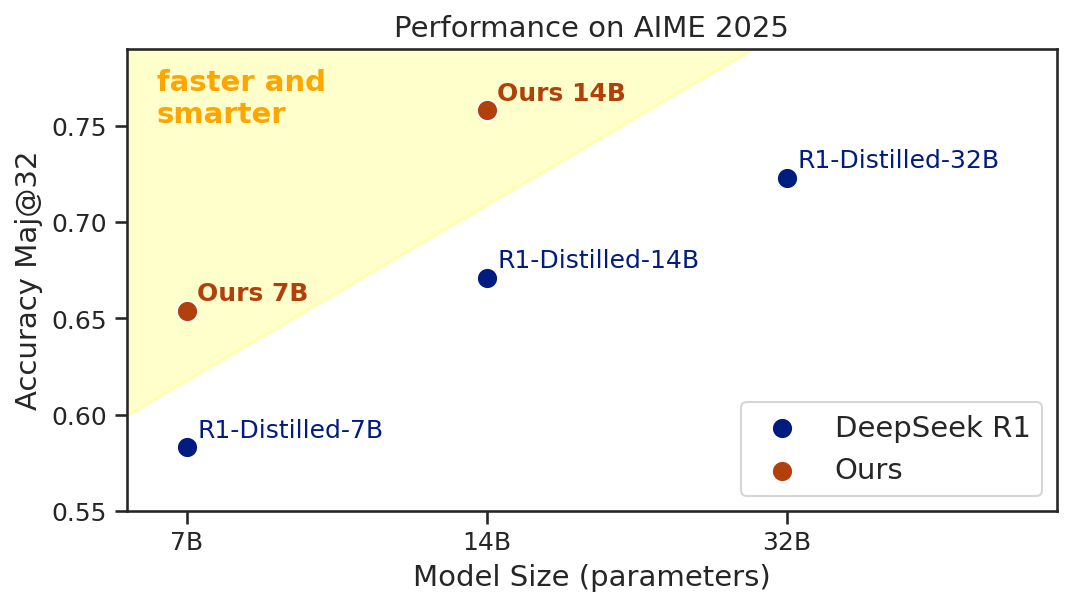
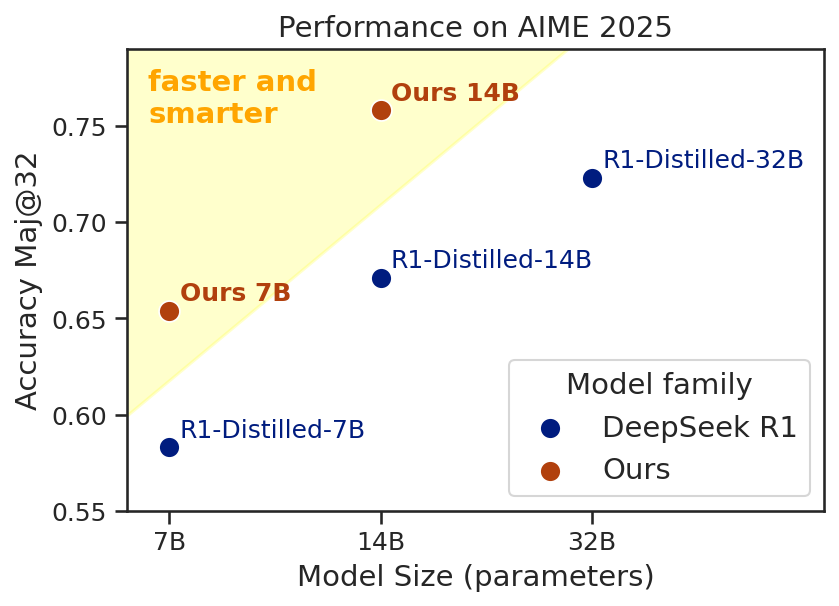
final touches to the GRPO post

diff --git a/content/posts/improving-deepseek/index.md b/content/posts/improving-deepseek/index.md
@@ -4,17 +4,17 @@ url: "/improving-deepseek"
 date: 2025-04-18T00:00:00+00:00
 # weight: 1
 # aliases: ["/first"]
-tags: ["Projects", "LLM", "Reinforcement Learning"]
+tags: ["LLM", "Reasoning", "Reinforcement Learning"]
 keywords: ["Reinforcement Learning", "RLHF", "Machine Learning", "RLVR", "AIME", "AIME 2025", "AIME 2024", "DeepSeek", "R1", "DeepSeek-R1", "DeepSeek R1", "GRPO", "REINFORCE++", "Light-R1", "NuminaMath", "AIMO", "AIMO2", "Kaggle", "Reasoning", "LLM", "Math Olympiads"]
 author: "Kha Vu Chan"
-# author: ["Me", "You"] # multiple authors
+# author: ["Kha Vu Chan", "Geremie Yeo", "Kelvin Soh", "Raja Biswas", "Udbhav Bamba"] # multiple authors
 showToc: true
 TocOpen: false
 draft: true
 hidemeta: false
 comments: true
 disqus_identifier: hav4ik/learning-to-rank
-summary: "We trained a family of math reasoning models, 7B and 14B, finetuned with SFT and GRPO from DeepSeek-Distill-R1 models. Our 14B model achieves **75.8%** Maj@32 accuracy on AIME’25 (**+8.7%** improvement), surpassing twice larger DeepSeek-R1-Distill-32B. Our 7B model achieves **65.8%** Maj@32 (**+7.5%** improvement), comparable to DeepSeek-R1-Distill-14B. A single end-to-end training run (SFT + GRPO) of our 14B model costs less than $800."
+summary: "I joined a team and we trained 7B and 14B math reasoning models based on DeepSeek-R1-Distill using SFT and GRPO. Our 14B model achieved **75.8%** Maj@32 on AIME’25 (**+8.7%** improvement), and our 7B model reached **65.8%** Maj@32 (**+7.5%**). Here is what I've learned."
 # canonicalURL: "https://canonical.url/to/page"
 disableHLJS: true # to disable highlightjs
 disableShare: false
@@ -42,14 +42,16 @@ cover:
 #     appendFilePath: true # to append file path to Edit link
 ---
 
-> Contributors: [**Geremie Yeo**](https://www.linkedin.com/in/geremie-yeo/), [**Kelvin Soh**](https://www.linkedin.com/in/kelvin-soh/), **[Raja Biswas](https://www.linkedin.com/in/raja-biswas/)**, **[Chan Kha Vu](https://hav4ik.github.io/about/)**, [**Udbhav Bamba**](https://ubamba98.github.io).  
+> Model contributors: [**Geremie Yeo**](https://www.linkedin.com/in/geremie-yeo/), [**Kelvin Soh**](https://www.linkedin.com/in/kelvin-soh/), **[Raja Biswas](https://www.linkedin.com/in/raja-biswas/)**, **[Chan Kha Vu](https://hav4ik.github.io/about/)**, [**Udbhav Bamba**](https://ubamba98.github.io).  
 > *Our team are just enthusiasts doing things outside of our full-time jobs (unrelated to LLMs or Reasoning) and other commitments in life. Cloud compute costs are entirely self-funded.*
 
-{{< figure src="featured.png" caption="Majority voting accuracy (Maj@32) on the uncontaminated AIME 2025 math olympiad of our models compared to DeepSeek R1 Distill models." invertible="false" >}}
+{{< figure src="cover.png" caption="Majority voting accuracy (Maj@32) on the uncontaminated AIME 2025 Math Olympiad, comparing our models to the DeepSeek-R1-Distill baselines. See the 'Evaluations' section for details on how this chart was generated." invertible="false" >}}
 
-This blog post is an extended and more personal version of [our team's short writeup on Kaggle](https://www.kaggle.com/competitions/ai-mathematical-olympiad-progress-prize-2/discussion/573496). Here, you will find details that are normally never included in polished papers or tech reports &mdash; system design, failed experiments, and engineering trics.
+This blog post is a more personal and extended version of [our team’s short write-up on Kaggle](https://www.kaggle.com/competitions/ai-mathematical-olympiad-progress-prize-2/discussion/573496). Here, you’ll find the kinds of details that rarely make it into polished papers or tech reports &mdash; system design, failed experiments, engineering details, and other discussions. You’ll also notice some awkward switches between “we” and “I” as I alternate between describing team efforts and my own experiments and thoughts.
+
 
 -------------------
+
 
 ## Preface
 
@@ -68,7 +70,7 @@ Take the [American Invitational Mathematics Examination (AIME)](https://en.wikip
 
 > **AIME 2025 I, problem 13.** Alex divides a disk into four quadrants with two perpendicular diameters intersecting at the center of the disk. He draws \( 25 \) more lines segments through the disk, drawing each segment by selecting two points at random on the perimeter of the disk in different quadrants and connecting those two points. Find the expected number of regions into which these \( 27 \) line segments divide the disk.
 
-*Please pause here for at least 5 minutes. Grab a pen and paper &mdash; try solving it! This fun little problem has more subtlety than it seems 😜. The correct human and AI solutions are included at the end of this post.*
+*Please pause here for at least 5 minutes. Grab a pen and paper &mdash; try solving it! This fun little problem has more subtlety than it seems 😜. Answer is provided at the end of this blog post.*
 
 Due to their complexity, AIME problems have become a standard hard benchmark for LLM reasoning. Just a year ago, any improvement on AIME 2024 performance would make headlines. The best open-weight models, like [DeepSeek Math](https://arxiv.org/abs/2402.03300), could only score 3% &mdash; or 10% with external tools. High-quality human-written solutions are scarce online, and for a while, it felt like real progress in mathematical reasoning would require hundreds of thousands (if not millions) of dollars to produce a usable dataset.
 
@@ -85,9 +87,22 @@ Early reproduction efforts like [DeepScaleR](https://www.notion.so/19681902c1468
 
 [AIMO](https://aimoprize.com) is a prestigious competition hosted on Kaggle with a total prize pool of $2’000’000, designed to push the frontier of open-source reasoning models. The difficulty of the problems are around the National Olympiad level. The problems have also been designed to be 'AI hard' in terms of the mathematical reasoning required, which was tested against open LLMs' capabilities (as of October 2024). Here is one of the [10 publicly available reference problems](https://www.kaggle.com/competitions/ai-mathematical-olympiad-progress-prize-2/data?select=AIMO_Progress_Prize_2_Reference_Problems_Solutions.pdf):
 
-> **AIMO2 reference problem.** Let \( ABC \) be a triangle with \( BC=108 \), \( CA=126 \), and \( AB=39 \). Point \( X \) lies on segment \( AC \) such that \( BX \) bisects \( \angle CBA \). Let \( \omega \) be the circumcircle of triangle \( ABX \). Let \( Y \) be a point on \( \omega \) different from \( X \) such that \( CX=CY \). Line \( XY \) meets \( BC \) at \( E \). The length of the segment \( BE \) can be written as \( \frac{m}{n} \), where \( m \) and \( n \) are coprime positive integers. Find \( m+n \).
+> **AIMO2 reference problem 2.** Let \( ABC \) be a triangle with \( BC=108 \), \( CA=126 \), and \( AB=39 \). Point \( X \) lies on segment \( AC \) such that \( BX \) bisects \( \angle CBA \). Let \( \omega \) be the circumcircle of triangle \( ABX \). Let \( Y \) be a point on \( \omega \) different from \( X \) such that \( CX=CY \). Line \( XY \) meets \( BC \) at \( E \). The length of the segment \( BE \) can be written as \( \frac{m}{n} \), where \( m \) and \( n \) are coprime positive integers. Find \( m+n \).
 
-*Again, I highly encourage you to pause here for at least 5 minutes, grab a pen and a piece of paper, and try to solve it. Correct human solution and AI solution will be provided at the end of this post.*
+*Again, I highly encourage you to pause here for at least 5 minutes, grab a pen and a piece of paper, and try to solve it. Answer is provided at the end of this blog post.*
+
+
+### What makes a problem 'AI hard'?
+
+By analyzing failure cases on medium-level math problems from AIME, we noticed that reasoning models often struggle with problems that have multiple corner cases and Geometry problems (due to the lack of visual understanding). My teammate [Geremie Yeo](https://www.linkedin.com/in/geremie-yeo/) wrote a great analysis on this: [AI outputs Wrong Answers due to Corner Cases for Medium-Level Math Problems](https://www.kaggle.com/competitions/ai-mathematical-olympiad-progress-prize-2/discussion/571769).
+
+I find that many of the model’s mistakes mirror the kinds of errors humans make too. Let’s look at the following problem as an example:
+
+> **AIME 2025 II, problem 7.** Let \( A \) be the set of positive integer divisors of \( 2025 \). Let \( B \) be a randomly selected subset of \( A \). The probability that \( B \) is a nonempty set with the property that the least common multiple of its elements is \( 2025 \) is \( \frac{m}{n} \), where \( m \) and \( n \) are relatively prime positive integers. Find \( m + n \).
+
+*Let's pause here and try to solve it. Did you make the same mistake that the AI made? Answer is provided at the end of this blog post.*
+
+The `DeepSeek-R1-Distill-14B` model often misinterprets the problem and assumes that \( A \) does not contain the empty set, resulting in the answer of \(m = 27904 \) and \( n = 32767 \) (60671 modulo 1000 = 671). I find this mistake to be quite cute.
 
 
 --------------------------------------------
@@ -99,7 +114,7 @@ For our main RL method, we followed the DeepSeek R1 paper and used GRPO &mdash; 
 
 {{< figure src="grpo.png" caption="Comparison between PPO and GRPO, taken from [DeepSeek Math](https://arxiv.org/abs/2402.03300) paper. The Value model (also called the Critic) is omitted, and the advantage is calculated from group statistics rather than per-sample scores." invertible="true" >}}
 
-While I was writing this blog post, Nathan Lambert published an excellent post analyzing GRPO, its main pitfalls, and ways to address them: [*Recent reasoning research: GRPO tweaks, base model RL, and data curation*](https://www.interconnects.ai/p/papers-im-reading-base-model-rl-grpo). During AIMO2, our team was already aware of these issues and we applied techniques from several papers to mitigate them.
+While I was writing this blog post, Nathan Lambert published an excellent post analyzing GRPO, its main pitfalls, and ways to address them: [*Recent reasoning research: GRPO tweaks, base model RL, and data curation*](https://www.interconnects.ai/p/papers-im-reading-base-model-rl-grpo). During the model training period, our team was already aware of these issues and we applied techniques from several papers to mitigate them.
 
 
 ### Length Bias
@@ -108,7 +123,7 @@ Since our goal was to train an effective reasoning model, we quickly identified 
 
 But why are reasoning chains so long? Is verbosity an emergent property of reasoning models? As it turns out, not necessarily. The [REINFORCE++](https://arxiv.org/html/2501.03262v1) paper showed that "length hacking" &mdash; as they called it &mdash; is a GRPO-specific issue. When comparing PPO, GRPO, RLOO, and REINFORCE++, they found that other algorithms achieved higher reward gains per unit of KL divergence without the same explosion in output length. That said, GRPO did show faster convergence.
 
-Fortunately, right before the final week of AIMO2 and just as we began our last GRPO runs, two new papers dropped that tackled the length problem head-on: [DAPO](https://dapo-sia.github.io/) and [Dr. GRPO](https://arxiv.org/abs/2503.20783).
+Fortunately, right just as we began our last GRPO runs, two new papers dropped that tackled the length problem head-on: [DAPO](https://dapo-sia.github.io/) and [Dr. GRPO](https://arxiv.org/abs/2503.20783).
 
 {{< figure src="dr_grpo.png" caption="[DAPO](https://dapo-sia.github.io/) and [Dr. GRPO](https://arxiv.org/abs/2503.20783) papers independently found that there is an implicit length bias in the [original GRPO formulation](https://arxiv.org/abs/2402.03300): longer incorrect solutions gets penalized less (token-wise) than shorter incorrect ones. The solution? Get rid of the per-sample loss normalization term completely!" invertible="true" >}}
 
@@ -165,14 +180,16 @@ Our SFT models were fine-tuned courtesy of [Kelvin Soh](https://www.linkedin.com
 
 During the Reinforcement Learning process, we tried to steer our model's behavior toward shorter reasoning CoTs. We spent considerable time on 7B models, hoping our findings would translate to 14B, only to relearn [the bitter lesson](http://www.incompleteideas.net/IncIdeas/BitterLesson.html) repeatedly &mdash; good tricks at smaller scales don't always work at larger ones.
 
-- For the 7B model, we performed GRPO in two stages: first on 8K context, then on 16K context. We found LoRA converged faster than FFT while being more VRAM-efficient. We used DAPO's clipping and online sample filtering, and length penalty worked well for 7B.
-- For 14B, length penalty severely hurts accuracy, so we removed it. Also, training on much shorter contexts significantly reduced accuracy at intended inference lengths. Model merging helped regain some accuracy, so our final submission is a merged SFT and GRPO on 6K context. We had another 14B GRPO on 16K context trained on the last day of the AIMO2 competition. Our 14B GRPO models were all trained on a single 8xH200 node.
+- For the 7B model, we performed GRPO in two stages: first on 8K context, then on 16K context. We found LoRA converged faster than FFT while being more VRAM-efficient. We used DAPO's clipping and online sample filtering, and length penalty worked well for 7B. We used outcome reward and DAPO's overlong penalty, which we found to be gentler than Cosine length penalty.
+- For 14B, length penalty severely hurts accuracy, so we removed it, leaving only outcome reward. Also, training on much shorter contexts significantly reduced accuracy at intended inference lengths. Model merging helped regain some accuracy, so our final submission is a merged SFT and GRPO on 6K context. We had another 14B GRPO on 16K context trained on the last day of the AIMO2 competition. Our 14B GRPO models were all trained on a single 8xH200 node.
 
 Our GRPO models were trained courtesy of [Geremie Yeo](https://www.linkedin.com/in/geremie-yeo/), [Kelvin Soh](https://www.linkedin.com/in/kelvin-soh/), [Raja Biswas](https://www.linkedin.com/in/raja-biswas/), and [Chan Kha Vu](https://hav4ik.github.io/about/). During the final week of the AIMO2 competition, each of us ran GRPO experiments independently. Every day, we checked in on each other’s progress, compared results, shared what worked, and built on each other’s findings. It was super fun &mdash; and rewarding (pun intended)!
 
 Interestingly, while my teammates used [Open-R1](https://github.com/huggingface/open-r1) with a [faster version of trl’s GRPOTrainer](https://github.com/nhannguyen2709/open-r1) by Kaggle user [@andy2709](https://www.kaggle.com/andy2709), I maintained an [active fork of veRL](https://github.com/hav4ik/verl/tree/dapo-lora) with DAPO, FSDP-LoRA, and Dr. GRPO integrated. Both frameworks supported long-context RL with sequence packing, Ulysses, hybrid trainers with model colocation for memory savings, vLLM rollouts, and more.
 
 ### Model Merging
+
+Our team used [MergeKit](https://github.com/arcee-ai/mergekit) to merge our final SFT and GRPO checkpoints using [TIES](https://arxiv.org/abs/2306.01708) method. We did not play around with any of the hyperparameters and just set all weights to 1 and density to 1. 
 
 We found that for 7B models, merging increases the overall performance: the merged model surpasses both the SFT and all GRPO checkpoints by accuracy and token economy. However, when we moved to 14B, merging becomes more of a compromise.
 
@@ -186,25 +203,27 @@ For evaluation, we used AIME 2025 (released in March 2025) as an uncontaminated 
 
 Reasoning traces are sampled with `BFloat16` precision, `temperature=0.75`, and `top_p=0.95`. We collect 64 traces per question with `max_len=32768`. Length and `Pass@1` metrics were averaged across 64 rollouts per question. For aggregated metrics like `Maj@K` (majority voting accuracy), we sampled `K` traces per problem from our pool of 64 traces. We repeated this process 16 times and reported the average to reduce noise.
 
+We used `stop=['</think>']` for our models, as they were trained with more restricted generation lengths and often produced correct answers before completing the full reasoning chain. Applying the same stopping condition to DeepSeek-R1 models led to noticeable accuracy drops, so their results below are reported using the default (stop at EOS) setting.
+
 You can reproduce our evals using our evaluation code [aime25-aimo2-evals](https://www.kaggle.com/code/chankhavu/aime25-aimo2-evals) and our dataset of collected reasoning traces [reasoning-traces-aime25-aimo25](https://www.kaggle.com/datasets/chankhavu/reasoning-traces-aime25-aimo25).
 
 ### 14B models
 
-- **Merged-14B:** the model we submitted to the Private LB of the AIMO2 competition for both of our final submissions. It's a merge of several SFT and GRPO with 6K context checkpoints.
-- **Last-GRPO-14B:** trained in the final days of the AIMO2 competition. It showed worse results on our local End-to-End whole pipeline validation, despite being better on academic-style benchmarking settings, so we never submitted it to LB.
+- **Merged-14B:** the model we submitted to the Private LB of the AIMO2 competition for both of our final submissions. It's a merge of several SFT and GRPO checkpoints. We uploaded the AWQ of this model on Huggingface: [bogoconic1/aimo2-final-merged-model-14b](https://huggingface.co/bogoconic1/aimo2-final-merged-model-14b).
+- **Last-GRPO-14B:** trained in the final days of the AIMO2 competition. It showed worse results than the merged model on our local End-to-End whole pipeline validation, despite being better on academic-style benchmarking settings, so we never submitted it to LB.
 
 Below are majority voting metrics with generation `max_len` set at 12800 and 32768 tokens:
 
 | Token budget | Model Name | CV Pass@1 | CV Maj@32 | AIME'25 Pass@1 | AIME'25 Maj@32 | Average length |
 | --- | --- | --- | --- | --- | --- | --- |
-| 12800 | DeepSeek-R1-Distill-14B | 0.412 | 0.613 | 0.41 | 0.648 | 9473.66 |
-|  | Light-R1-14B-DS | 0.442 | 0.664 | 0.45 | 0.671 | 9787.01 |
-|  | **Our Merged 14B** | 0.477 | **0.747** | 0.455 | **0.731** | **9251.56** |
-|  | **Our Last GRPO 14B** | **0.482** | 0.736 | **0.468** | **0.738** | 9312.03 |
-| 16384 | DeepSeek-R1-Distill-14B | 0.449 | 0.664 | 0.447 | 0.671 | 10910.2 |
-|  | Light-R1-14B-DS | 0.498 | 0.713 | 0.502 | 0.731 | 11432.1 |
-|  | **Our Merged 14B** | 0.525 | 0.759 | 0.504 | 0.746 | **10552.1** |
-|  | **Our Last GRPO 14B** | **0.541** | **0.762** | **0.521** | **0.758** | **10511.6** |
+| 12800 | DeepSeek-R1-Distill-14B | 0.412 | 0.613 | 0.41 | 0.648 | 9473 |
+|  | Light-R1-14B-DS | 0.442 | 0.664 | 0.45 | 0.671 | 9787 |
+|  | **Our Merged 14B** | 0.477 | **0.747** | 0.455 | **0.731** | **8921** |
+|  | **Our Last GRPO 14B** | **0.482** | 0.736 | **0.468** | **0.738** | **8981** |
+| 16384 | DeepSeek-R1-Distill-14B | 0.449 | 0.664 | 0.447 | 0.671 | 10910 |
+|  | Light-R1-14B-DS | 0.498 | 0.713 | 0.502 | 0.731 | 11432 |
+|  | **Our Merged 14B** | 0.525 | 0.759 | 0.504 | 0.746 | **10125** |
+|  | **Our Last GRPO 14B** | **0.541** | **0.762** | **0.521** | **0.758** | **10071** |
 
 We observe an interesting phenomenon: at 32K tokens budget, all models perform slightly worse on Maj@32 than with 16K tokens budget. The reason is, when given more thinking time the model tends to self-doubt, sometimes leading to wrong answers.
 
@@ -224,20 +243,40 @@ It should be noted that we built on top of [Light-R1](https://huggingface.co/dat
 
 | Token budget | Model name | CV Pass@1 | CV Maj@32 | AIME'25 Pass@1 | AIME'25 Maj@32 | Average length |
 | --- | --- | --- | --- | --- | --- | --- |
-| 12800 | DeepSeek-R1-Distill-7B | 0.345 | 0.55 | 0.353 | 0.562 | **9553.74** |
-|  | Light-R1-7B-DS | 0.36 | 0.606 | 0.371 | 0.606 | 9831.07 |
-|  | **Our Final SFT 7B** | 0.379 | 0.627 | 0.374 | 0.604 | 9751 |
-|  | **Our Merged 7B** | **0.383** | **0.658** | **0.38** | **0.637** | **9583.42** |
-| 16384 | DeepSeek-R1-Distill-7B | 0.368 | 0.58 | 0.377 | 0.583 | **11104.1** |
-|  | Light-R1-7B-DS | 0.391 | 0.611 | 0.401 | 0.631 | 11511.7 |
-|  | **Our Final SFT 7B** | 0.412 | 0.678 | 0.398 | **0.658** | 11449.6 |
-|  | **Our Merged 7B** | **0.422** | **0.686** | **0.409** | **0.654** | **11145.9** |
+| 12800 | DeepSeek-R1-Distill-7B | 0.345 | 0.55 | 0.353 | 0.562 | **9553** |
+|  | Light-R1-7B-DS | 0.36 | 0.606 | 0.371 | 0.606 | 9831 |
+|  | **Our Final SFT 7B** | 0.379 | 0.627 | 0.374 | 0.604 | 9482 |
+|  | **Our Merged 7B** | **0.383** | **0.658** | **0.38** | **0.637** | **9303** |
+| 16384 | DeepSeek-R1-Distill-7B | 0.368 | 0.58 | 0.377 | 0.583 | 11104 |
+|  | Light-R1-7B-DS | 0.391 | 0.611 | 0.401 | 0.631 | 11511 |
+|  | **Our Final SFT 7B** | 0.412 | 0.678 | 0.398 | **0.658** | 11104 |
+|  | **Our Merged 7B** | **0.422** | **0.686** | **0.409** | **0.654** | **10778** |
 
 It's easier to visualize the test-time scaling economy of our models with the following plot:
 
 {{< figure src="tts_7b_aime25.png" caption="Test-time scaling economy of our final merged 7B model. Each “dot” represents accuracy results on AIME 2025 when total token budget is set to one of the following: 8192, 9000, 12800, 16384. Our model reaches the peak Maj@32 of the base DeepSeek-R1-7B 33% faster, and have comparable peak Maj@32 to Light-R1." invertible="true" >}}
 
 {{< figure src="tts_7b_cv.png" caption="Test-time scaling economy of our final merged 7B model. Each “dot” represents accuracy results on our 40 questions **CV** set (AIME'25 + AIMO-2) when total token budget is set to one of the following: 8192, 9000, 12800, 16384. Our model reaches the peak Maj@32 of the base DeepSeek-R1-7B 33% faster, and have better peak Maj@32 to Light-R1." invertible="true" >}}
+
+
+### Evals summary
+
+To produce the chart at the beginning of this post, we used same sampling settings as described above (same prompts, temperature, and top_p). **Pass@1** and **Avg. Length** were measured with `max_len=32768` and averaged over 64 rollouts, while **Maj@32** was calculated with `max_len=16384` across 16 simulated runs.
+
+Why use different `max_len` for these metrics? All models &mdash; especially the distilled DeepSeek-R1 &mdash; show worse Maj@32 at longer token budgets. The most likely reason is that with more room to think, models tend to hallucinate default or overconfident answers.  
+
+**Bottom line:** better Pass@1 does *not* mean better Maj@32!
+
+| Params | Model name | AIME'25 Pass@1 | AIME’25 Maj@32 | Avg. Length |
+|:---:| :--- |:---:|:---:|:---:|
+| 7B | DeepSeek-R1-Distill-Qwen-7B | 0.389 | 0.583 | 14069 |
+| | **Ours 7B** *(Merged)* | **0.422** | **0.654** | **12211** |
+| 14B+ | DeepSeek-R1-Distill-Qwen-14B | 0.485 | 0.671 | 13071 |
+| | DeepSeek-R1-Distill-Qwen-32B | 0.51 | 0.723 | 12440 |
+| | **Ours 14B** *(Final GRPO)* | **0.542** | **0.758** | **10731** |
+
+
+I wasn’t able to reproduce the AIME’25 Pass@1 results for `DeepSeek-R1-Distill-Qwen-32B` reported by [MathArena](https://matharena.ai) (0.51 vs 0.59), though my results for the 14B and 1.5B models match theirs closely. The main difference between our settings is that they used a different prompt &mdash; one that hints the answer should be an integer &mdash; which could boost Pass@1. This prompting difference might have a bigger impact on the 32B model, which follows the system prompt better than smaller models.
 
 
 --------------------------------------------
@@ -357,3 +396,24 @@ Here’s a fun &mdash; but completely useless and cash-burning &mdash; experimen
 The 16K-from-the-start run had a pretty aggressive length penalty &mdash; so aggressive that the model seemed to prioritize shorter solutions over actual correctness. Sounds useless, right? But here’s the twist: once the length reward balances out during training, the 16K model still ends up with better validation accuracy. (Ignore the overall reward scores &mdash; they’re not directly comparable across runs.)
 
 The takeaway? Starting GRPO at 16K context doesn’t just match the length-saving effect &mdash; it does so *while preserving more accuracy*. If your target is long-context inference anyway, you might as well train for it from the start.
+
+
+-------------------------------------------------
+
+
+## Conclusion
+
+We trained a family of math reasoning models, 7B and 14B, finetuned with SFT and GRPO from `DeepSeek-Distill-R1` models. Our 14B model achieves **75.8%** Maj@32 accuracy on AIME’25 (**+8.7%** improvement), surpassing twice larger `DeepSeek-R1-Distill-32B`. Our 7B model achieves **65.8%** Maj@32 (**+7.5%** improvement), comparable to `DeepSeek-R1-Distill-14B` &mdash; a model twice its size. A single end-to-end training run (SFT + GRPO) of our final 14B model costs less than $800.
+
+Our main motivation was the [Kaggle AIMO2 competition](https://www.kaggle.com/competitions/ai-mathematical-olympiad-progress-prize-2/overview). The leaderboard was extremely noisy &mdash; teams placing 3rd to 5th (prize money range) used the base DeepSeek-R1-14B model with no fine-tuning, just clever inference tricks and lucky shots. One major challenge we faced was quantization, which erased a sizeable part of our training gains. Unlike other teams, we didn’t use early stopping on reasoning rollouts and other tricks in our final submission, though we did experiment with it earlier on and found no difference in local testing.
+
+Although luck was not on our side and we didn't achieve the leaderboard results we hoped for this time due to reasons both outside and within our control (not related to model training), we will definitely get it on the next AIMO progress prize! See you at the bleeding edge of open-source reasoning models at AIMO3.
+
+
+-------------------------------------------------
+
+
+Answers to some of the math problems mentioned in this post:
+* **AIME 2025 I, problem 13**: 204
+* **AIMO2 reference problem 2**: 751
+* **AIME 2025 II, problem 7**: 237
